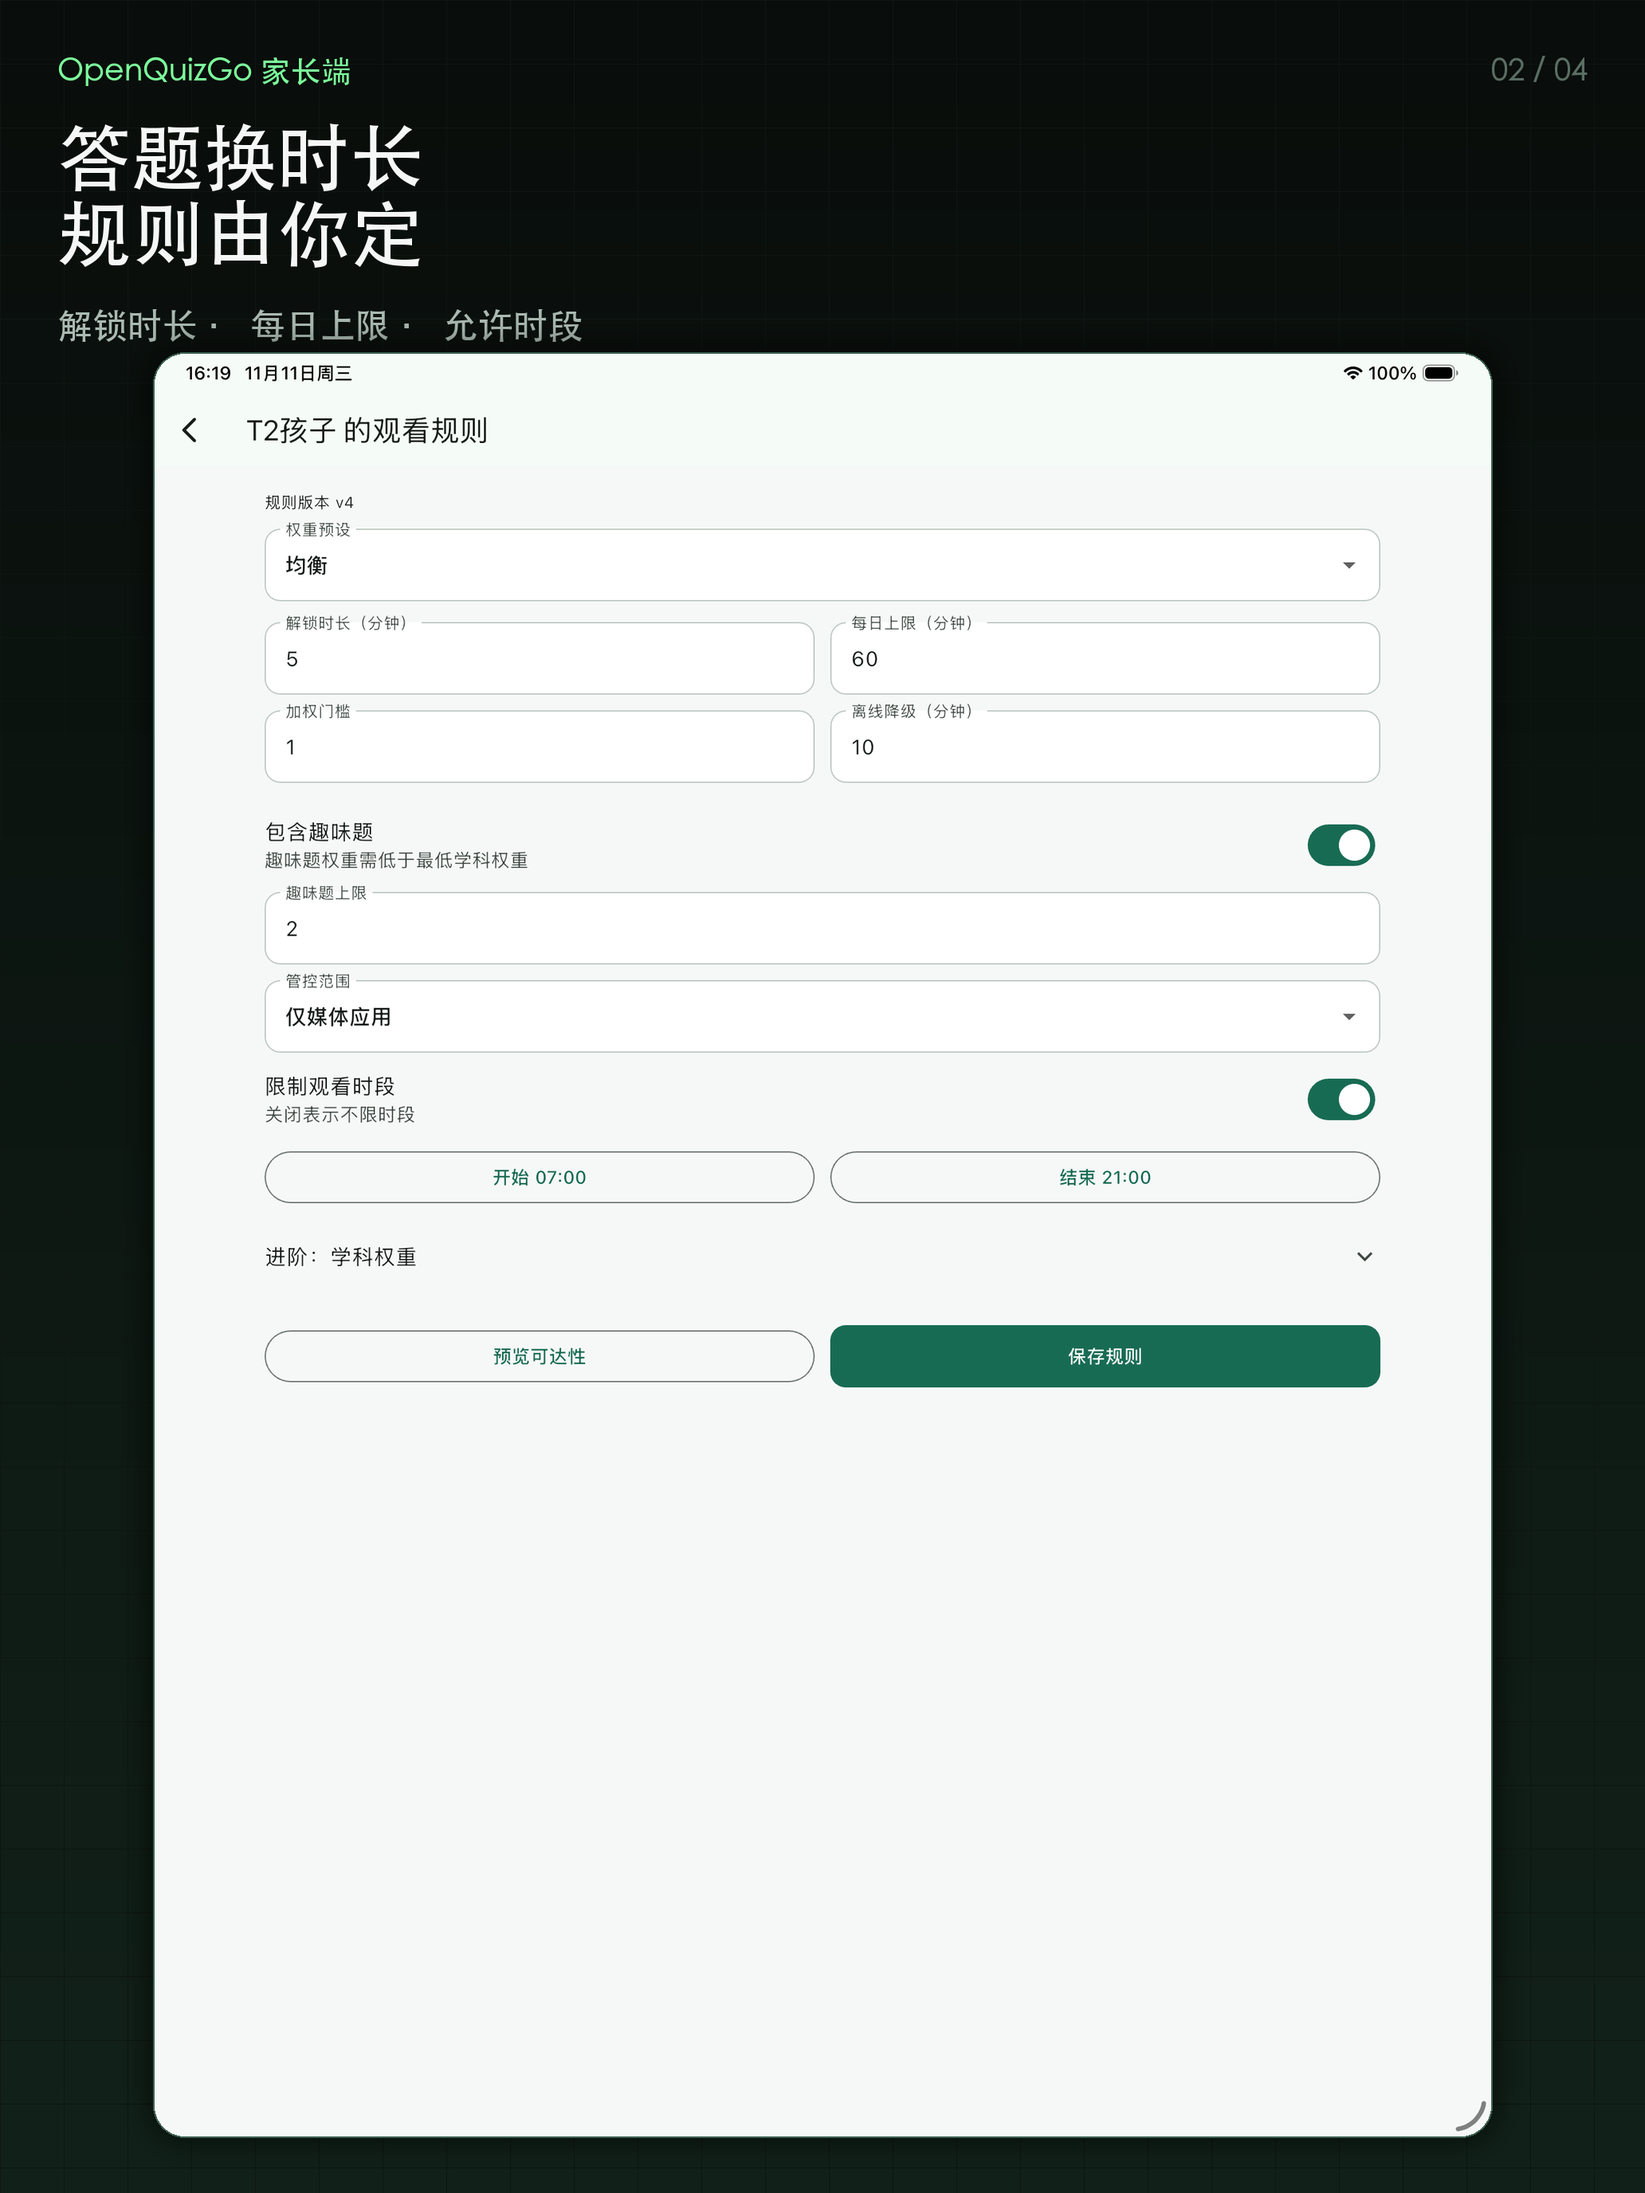
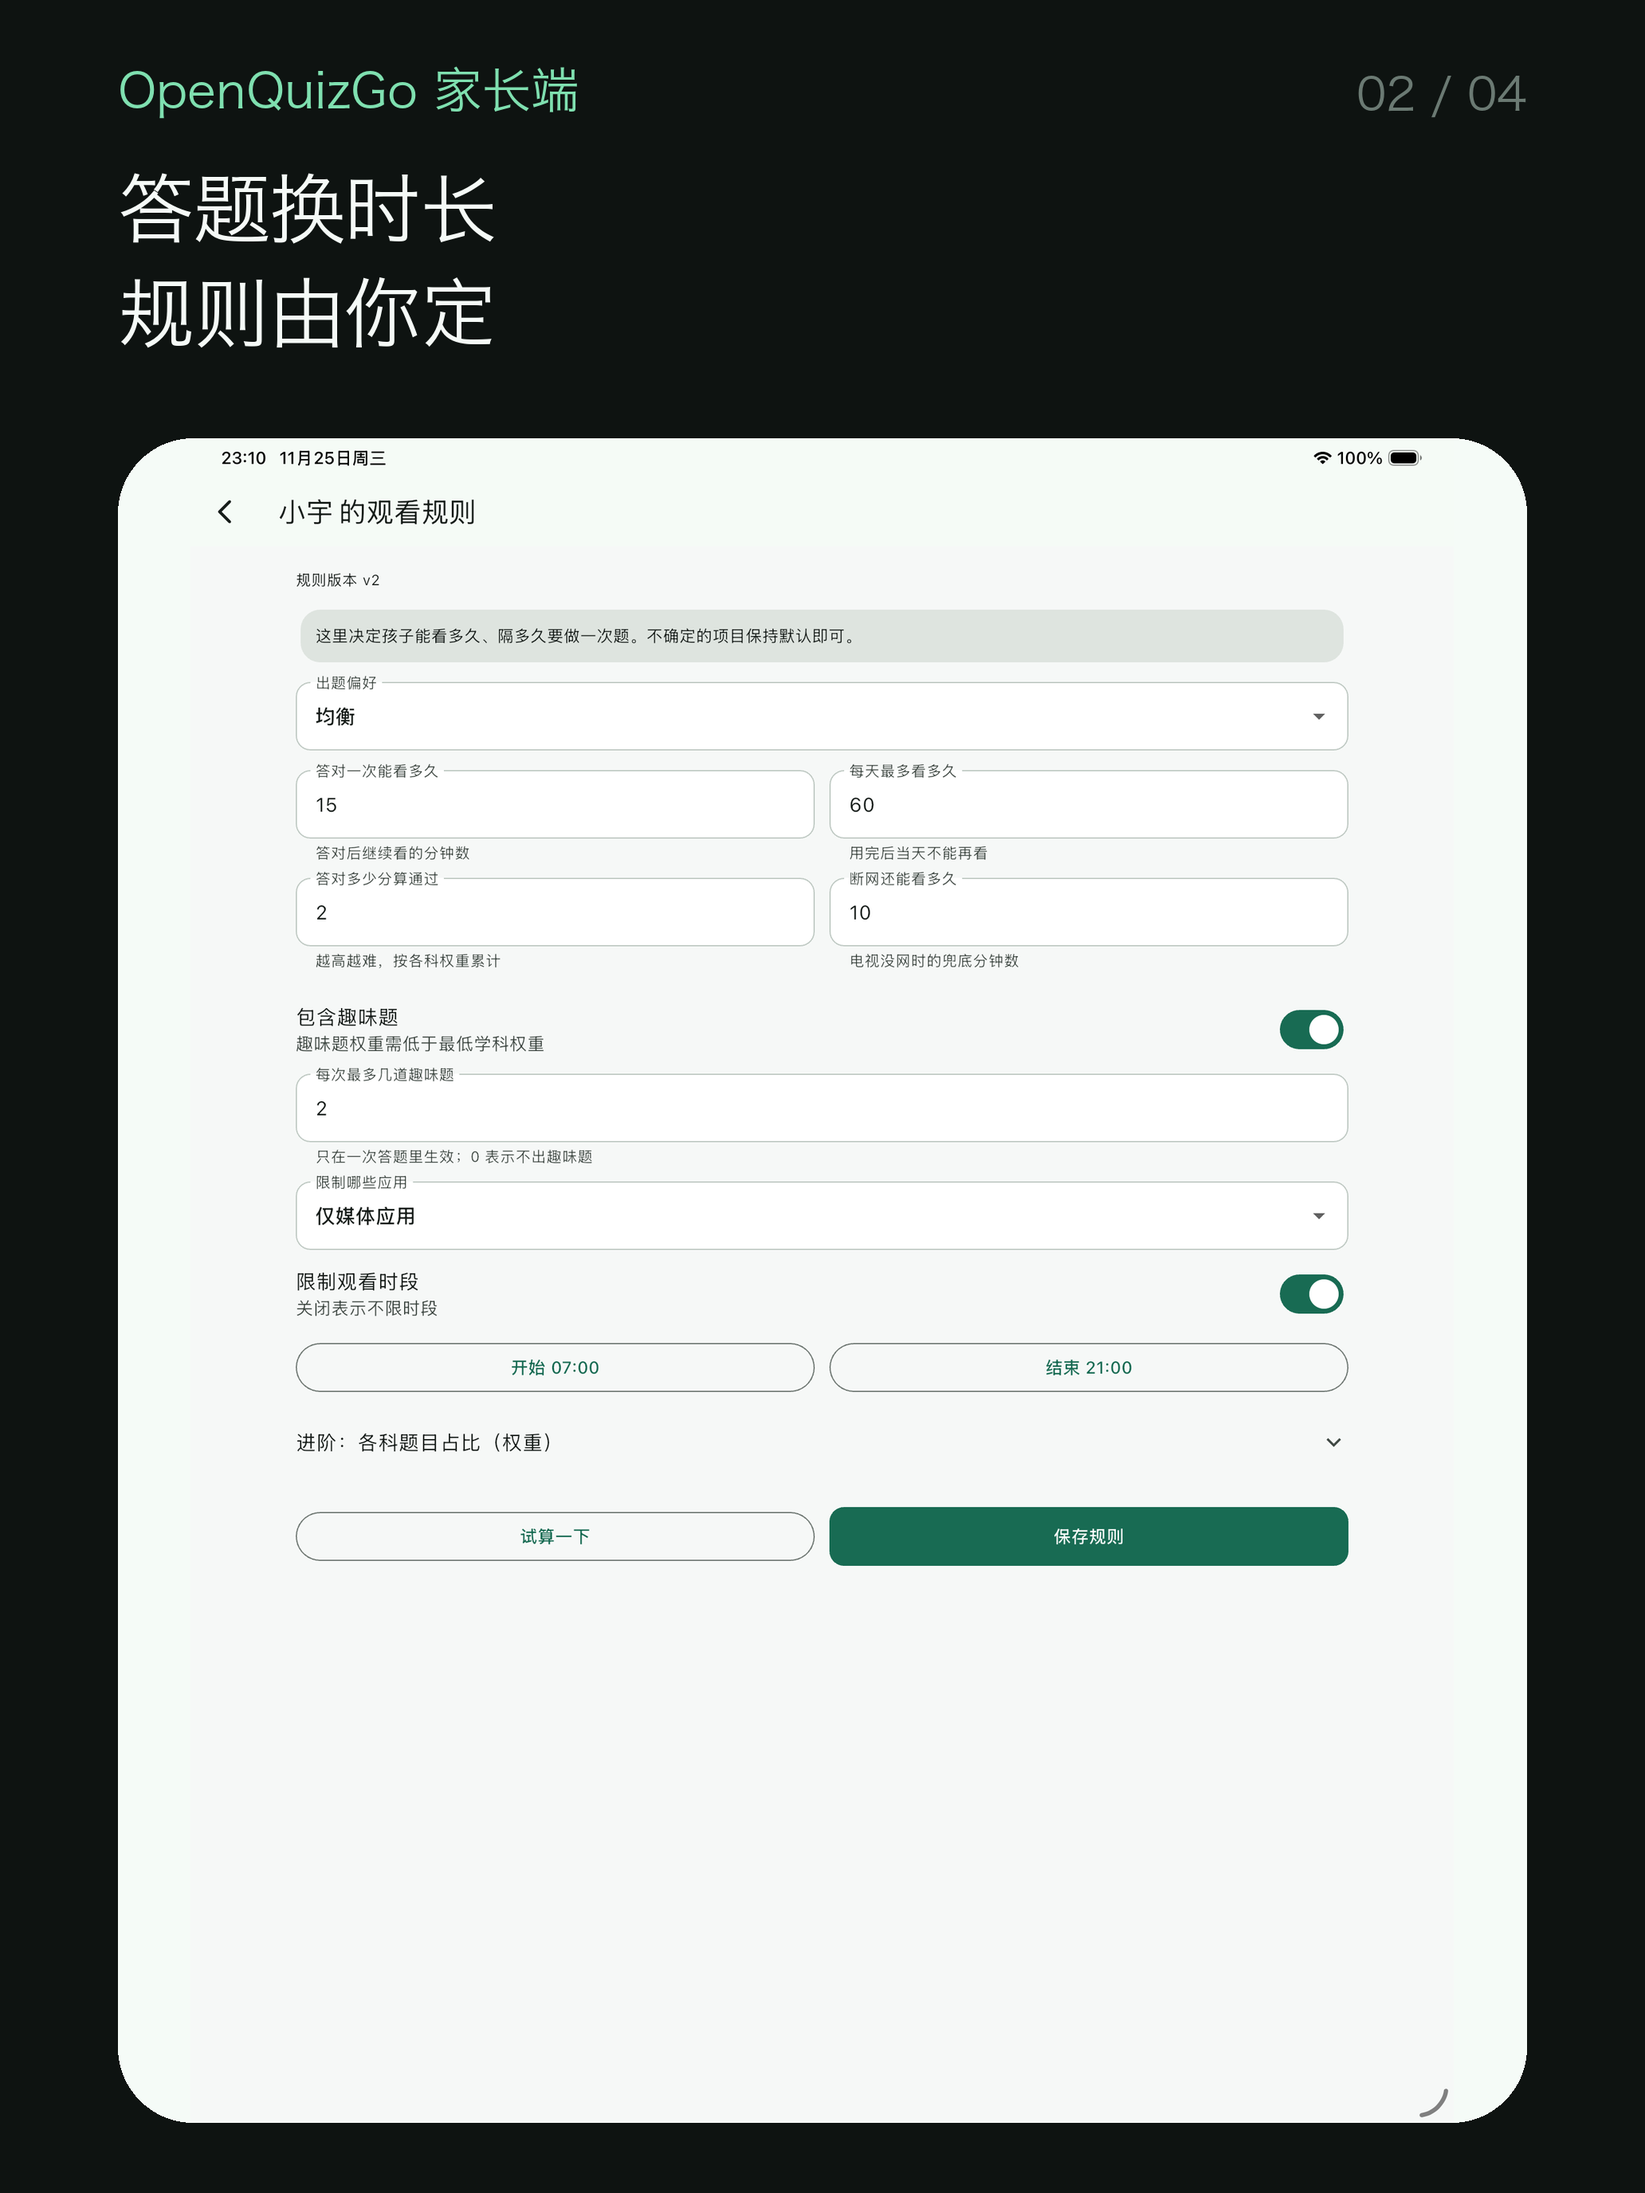
feat(compliance): 公安备案页脚 + 访问日志留存 6 个月
- admin-web 页脚加「粤公网安备44011302006250号」+ 官方图标，链接平台查询页
- nginx access_log 改 syslog(local6)，宿主 rsyslog 落 /var/log/nginx，logrotate 保留 200 天
- www.conf 下载限流随本次提交入库，消除 state 漂移
- 同步 App Store 三套截图（076 后新布局）与验收文档

diff --git a/admin-web/src/components/Beian.tsx b/admin-web/src/components/Beian.tsx
@@ -1,9 +1,12 @@
 /**
- * 备案号（ICP 合规要求）。
- * 备案通过后站点对公网可见，页脚必须展示备案号并链接到工信部。
- * 号码与 OpenChronicleAtlas 共用（同属 openapp.asia 备案），换证/换号时只改这里。
+ * 备案号（ICP + 公安联网备案，合规要求）。
+ * 备案通过后站点对公网可见，页脚必须展示备案号并链接官方查询页。
+ * 号码与 OpenChronicleAtlas、OpenApp 官网共用（同属 openapp.asia 备案），换证/换号时只改这里。
  */
 export const ICP_NUMBER = '粤ICP备2026058093号-2'
+export const PSB_NUMBER = '粤公网安备44011302006250号'
+export const PSB_HREF =
+  'https://beian.mps.gov.cn/#/query/webSearch?code=44011302006250'
 
 export default function Beian({ style }: { style?: React.CSSProperties }) {
   return (
@@ -15,6 +18,22 @@ export default function Beian({ style }: { style?: React.CSSProperties }) {
         style={{ color: 'inherit' }}
       >
         {ICP_NUMBER}
+      </a>
+      <span style={{ margin: '0 6px' }}>·</span>
+      <a
+        href={PSB_HREF}
+        target="_blank"
+        rel="noreferrer"
+        style={{ color: 'inherit', whiteSpace: 'nowrap' }}
+      >
+        <img
+          src="/beian.png"
+          alt=""
+          width={15}
+          height={17}
+          style={{ height: 16, width: 'auto', verticalAlign: '-3px', marginRight: 4 }}
+        />
+        {PSB_NUMBER}
       </a>
     </div>
   )

diff --git a/docs/acceptance/appstore-recapture.md b/docs/acceptance/appstore-recapture.md
@@ -1,0 +1,74 @@
+# 商店截图重截执行清单（2026-11-25）
+
+> 目标：把 `docs/acceptance/appstore-screenshots/` 换成 076 之后的新布局，iPhone/iPad 各 4 张，供 App Store Connect 直接上传。
+> 现状：现有截图 2026-11-11 生成，iPad 那套是旧底部导航；iPhone 那套的标题文案也需替换。
+
+## 1. 需要产出的文件
+
+| 槽位 | 目录 | 尺寸 | 张数 | 内容 |
+| --- | --- | --- | --- | --- |
+| 灵动岛 iPhone（中等屏） | `iphone-dynamic-island-medium/` | 1206×2622 | 4 | 01 首页档案与设备、02 规则、03 远程解锁、04 排行榜/对战 |
+| iPad 13 英寸 | `ipad-13/` | 2064×2752 | 4 | 同上 |
+| 大屏 iPhone（可选） | `iphone-6.9/` | 1320×2868 | 4 | 同上，非必需 |
+
+标题沿用现有四句：
+
+1. 管好电视时间，一个 App 就够
+2. 答题换时长，规则由你定
+3. 不在家，也能临时放行
+4. 亲子对战，让学习更有趣
+
+## 2. 本地环境（已验证部分）
+
+| 项 | 状态 |
+| --- | --- |
+| PostgreSQL 15/16 | ✅ 本机运行，库 `openquizgo` 存在但**未迁移**（无表） |
+| Redis | ✅ `PONG` |
+| Docker | ❌ 不可用，不走 compose，直接跑 Go 二进制 |
+| 模拟器 | ✅ `OQG-iPad13`（75DE4395…）、`SS-iPhone69`（E2F958EF…） |
+| Flutter | ✅ `/opt/homebrew/bin/flutter`，`parent/ios/Pods` 已安装 |
+
+## 3. 步骤
+
+```bash
+cd ~/我的文档/源码/OpenQuizGo
+
+# 1) 迁移（.env 已指向 openquizgo 库）
+make migrate-up
+
+# 2) 起 API（mock 登录，固定验证码 123456）
+make run        # 或 go run ./cmd/api
+
+# 3) 起模拟器
+xcrun simctl boot 75DE4395-4F38-4987-B7C8-BF52CEE5036C   # iPad 13
+xcrun simctl boot E2F958EF-79B0-45F7-9987-8719CCF153E5   # iPhone 6.9
+
+# 4) 跑 App（模拟器内访问本机用 127.0.0.1）
+cd parent
+flutter run -d 75DE4395-4F38-4987-B7C8-BF52CEE5036C --dart-define=API_BASE_URL=http://127.0.0.1:8080/
+flutter run -d E2F958EF-79B0-45F7-9987-8719CCF153E5 --dart-define=API_BASE_URL=http://127.0.0.1:8080/
+
+# 5) 登录 → 用 123456；首次登录自动建家庭
+# 6) 逐屏截图
+xcrun simctl io <udid> screenshot /tmp/shot-01.png
+```
+
+## 4. 数据准备（截图的真实性底线）
+
+- 孩子昵称、设备名必须是演示用假数据，禁止出现真实手机号或真实儿童信息。
+- 需要的状态：1 个孩子档案、1 台在线电视、1 套规则、若干答题记录、排行榜里至少 2 个家庭（亲子对战页）。
+- 若题库为空，先在管理后台 `quiz.openapp.asia` 或在本地 `admin` 命令行建 1 个专题 + 5 道题。
+
+## 5. 合成与验收
+
+- 截图只允许"真实 App 界面 + 统一标题条 + 统一背景"，不得伪造功能、评分或用户数据。
+- 合成后按上表尺寸核对：`sips -g pixelWidth -g pixelHeight <file>`。
+- 验收通过后替换目录内容，更新 `appstore-assets.md` 的日期与说明，并把旧图挪到 `appstore-screenshots/archive-2026-11-11/`。
+- 官网产品页的截图（`src/assets/products/openquizgo/`）同步换成同一批，避免商店与官网不一致。
+
+## 6. 执行结果（2026-11-25）
+
+- 已完成：iPhone 6.9（1320×2868）、灵动岛中等屏（1206×2622）、iPad 13（2064×2752）各 4 张，旧图归档 `appstore-screenshots/archive-2026-11-11/`。
+- 演示数据：本地 API（mock 短信，验证码 123456）创建家庭「小宇（三年级）/ 小满（二年级）」、客厅电视、观看规则、6 场亲子对战与 1 次临时放行；无真实手机号或儿童信息。
+- 官网 `src/assets/products/openquizgo/` 已同步同一批图（iPhone ×4、iPad ×2），构建并发布到 https://www.openapp.asia 。
+- 环境备注：本机 Xcode 仅支持 iOS 15+ 部署目标，截图时临时把 `parent/ios/Podfile` 的平台与 Pods 部署目标升到 15.0，截取完成后已还原（未提交）。

diff --git a/docs/acceptance/appstore-assets.md b/docs/acceptance/appstore-assets.md
@@ -1,7 +1,7 @@
 # App Store 截图与 App 预览
 
 > 2026-11-12：应用展示名统一为「电视时间管家」，副标题建议「答题换时长 · 家长远程管控」。
-> 现有 iPad 13 英寸截图为 076 之前的底部导航布局，上传前需按新版侧边导航重新截图；iPhone 截图中的应用名标题也需同步替换。
+> 2026-11-25：三套截图已按 076 之后的新布局重截（iPhone 底部导航、iPad 侧边导航），旧图归档在 `appstore-screenshots/archive-2026-11-11/`。
 
 | 项目 | 内容 |
 | --- | --- |
@@ -20,7 +20,7 @@
 | --- | --- | --- | --- |
 | 1 | [`iphone-dynamic-island-medium/01.png`](appstore-screenshots/iphone-dynamic-island-medium/01.png) | 管好电视时间，一个 App 就够 | 孩子档案、设备状态、观看报告 |
 | 2 | [`iphone-dynamic-island-medium/02.png`](appstore-screenshots/iphone-dynamic-island-medium/02.png) | 答题换时长，规则由你定 | 解锁时长、每日上限、允许时段 |
-| 3 | [`iphone-dynamic-island-medium/03.png`](appstore-screenshots/iphone-dynamic-island-medium/03.png) | 不在家，也能临时放行 | 家长 PIN 远程解锁 |
+| 3 | [`iphone-dynamic-island-medium/03.png`](appstore-screenshots/iphone-dynamic-island-medium/03.png) | 不在家，也能临时放行 | 临时放行弹窗：15 分钟、家长 PIN 确认 |
 | 4 | [`iphone-dynamic-island-medium/04.png`](appstore-screenshots/iphone-dynamic-island-medium/04.png) | 亲子对战，让学习更有趣 | 家庭排行榜、对战记录 |
 
 ### iPhone：大屏（可选）
@@ -31,12 +31,12 @@
 
 尺寸：2064×2752，共 4 张。
 
-| 顺序 | 文件 |
-| --- | --- |
-| 1 | [`ipad-13/01.png`](appstore-screenshots/ipad-13/01.png) |
-| 2 | [`ipad-13/02.png`](appstore-screenshots/ipad-13/02.png) |
-| 3 | [`ipad-13/03.png`](appstore-screenshots/ipad-13/03.png) |
-| 4 | [`ipad-13/04.png`](appstore-screenshots/ipad-13/04.png) |
+| 顺序 | 文件 | 标题 | 展示内容 |
+| --- | --- | --- | --- |
+| 1 | [`ipad-13/01.png`](appstore-screenshots/ipad-13/01.png) | 管好电视时间，一个 App 就够 | 孩子档案双列布局、侧边导航 |
+| 2 | [`ipad-13/02.png`](appstore-screenshots/ipad-13/02.png) | 答题换时长，规则由你定 | 观看规则表单 |
+| 3 | [`ipad-13/03.png`](appstore-screenshots/ipad-13/03.png) | 不在家，也能临时放行 | 临时放行弹窗：15 分钟、家长 PIN 确认 |
+| 4 | [`ipad-13/04.png`](appstore-screenshots/ipad-13/04.png) | 亲子对战，让学习更有趣 | 家庭排行榜、对战记录 |
 
 说明：
 
@@ -81,7 +81,7 @@ App 预览是**可选**的，不上传也可以提交；上传后会显示在产
 
 ## 4. 注意
 
-- 截图中孩子昵称为测试数据「T2孩子」，上线前可替换为更中性的示例昵称；
-- 第 3 张截图中的家长 PIN 为空，未展示真实 PIN；
+- 截图中孩子昵称为演示数据「小宇」「小满」，家庭为本地测试环境，无真实手机号或儿童信息；
+- 第 3 张截图展示临时放行弹窗（15 分钟），PIN 输入框留空，未展示真实 PIN；
 - App 预览无音频，审核员静音观看也能理解；
 - 截图和预览均未展示会员购买入口。

diff --git a/docs/deployment-todo.md b/docs/deployment-todo.md
@@ -88,7 +88,8 @@
   - 流程：阿里云初审 1–2 天 → 工信部短信核验（24h 内）→ 管局 1–2 周
 - [ ] **域名解析**（你，备案通过后）
   - `@`、`www`、`atlas`、`quiz` → A → `8.163.122.39`
-- [ ] **公安联网备案**（你，ICP 通过后 30 日内，**2026-12-23 前**）
+- [x] **公安联网备案**（2026-11-24 提交，2026-11-26 审核通过）
+  - 网站「开放应用记录」，`粤公网安备44011302006250号`，覆盖 `openapp.asia` + `www` / `atlas` / `quiz`
   - `beian.mps.gov.cn`；字段预填、材料清单与步骤见 [计划 088](plans/088-公安联网备案实施计划.md)
   - 先查阿里云「我的备案 → 已完成订单 → 详情 → 公安备案」有无**数据码**（有则自动带入主体与网站信息）
   - 通过后把公安备案号加到两站页脚（30 日内，逾期会被通报）
@@ -113,10 +114,14 @@
 - [x] **安全组放开 TCP 80/443**（用户，2026-11-24 已开）
   - 已写 `/srv/ops/state/exposure.json`（80/443 allowed，8080-8082 blocked）
   - `status.sh` 公网自探 5/5 ✅；8080/8081/8082 公网仍全部超时
-- [ ] **公安联网备案**（2026-11-24 已提交，[计划 088](plans/088-公安联网备案实施计划.md)）
+- [x] **公安联网备案**（2026-11-24 提交，2026-11-26 审核通过）
   - 个人主体 + 阿里云数据码绑定；交互服务「否」、管制物品「否」、前置许可不勾、语种中文简体
-  - 审核期（3–20 工作日）**冻结** DNS / 公网 IP / 80-443 端口改动，见计划第 9 节
-  - 出号后 30 日内挂两站页脚（T7）；接电话口径见计划第 9 节（避免「教育」类表述）
+  - `粤公网安备44011302006250号`；管理端页脚已挂（图标 + 号码 + 查询链接）
+- [x] **访问日志留存 ≥6 个月**（2026-11-26）：nginx `access_log` 改 `syslog:127.0.0.1:514`(local6)，
+  宿主 rsyslog 落 `/var/log/nginx/access.log`，logrotate `daily / rotate 200 / compress`
+  - 源文件：`deploy/nginx/{nginx.conf,rsyslog-nginx-access.conf,logrotate-quizgo-nginx}`
+  - 宿主安装：`/etc/rsyslog.d/49-nginx-access.conf`、`/etc/logrotate.d/quizgo-nginx`（`deploy.sh` 不装这两处，换机需手工）
+  - 实测连续轮转后新日志继续写入，`/var/log/messages` 无重复；真实客户端 IP 保留
 - [x] **`www.atlas` / `www.quiz` DNS**：用户 2026-11-24 决定**不加**（只有 `www.openapp.asia` 有记录）。
       证书 SAN 与 `server_name` 保留 www，将来加解析即可用；当前 `https://www.<子域>` 解析失败属预期，不要当故障排查
 - [x] **上线后全链路验证**（086 T8，2026-11-24）：公网侧全绿，详见 `docs/plans/086-…` 第 8 节
